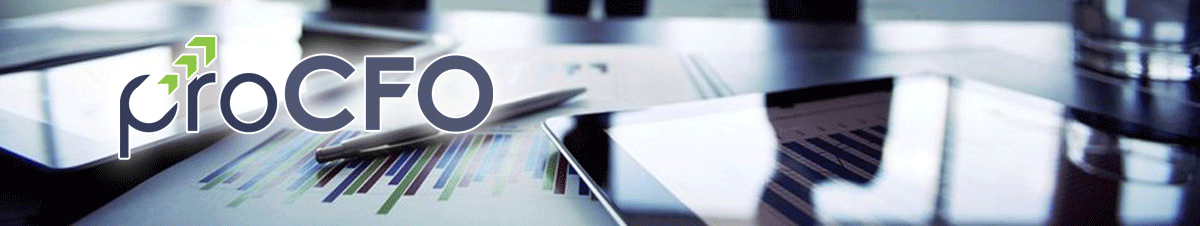
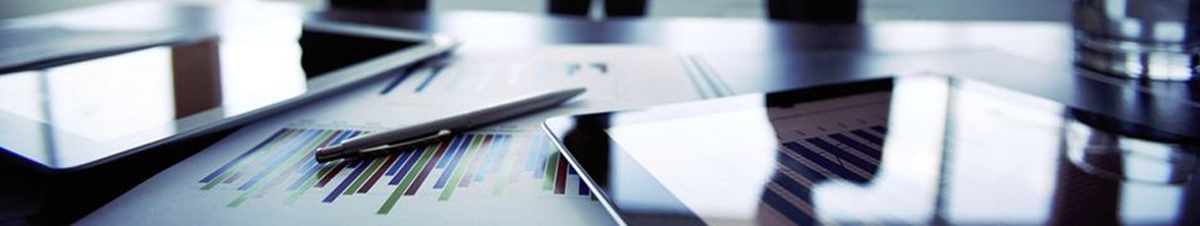
ádasdsa

Changed region(s): [[0.0617, 0.0929, 0.4317, 0.7743], [0.4625, 0.7743, 0.4933, 0.8053]]

diff --git a/procfo.com.au/css/style.css b/procfo.com.au/css/style.css
@@ -22,9 +22,20 @@ body{
 *	CSS HEADER
 */
 .container-header{
-	background:url('/images/home_header_bg.png') center center no-repeat;
-	background-size: cover;
 	min-height: 226px;
+	position: relative;
+}
+.logo{
+    position: absolute;
+    top: 0;
+    left: 0;
+    bottom: 0;
+    right: 0;
+    overflow: hidden;
+}
+.logo img{
+	max-width: 100%;
+	height: auto;
 }
 .box-btn{
 	float: right;
@@ -105,12 +116,31 @@ body{
 .navbar-default .navbar-nav>li:last-child:after{
 	display: none;
 }
+
+.navbar-toggle{
+    margin: 0;
+    padding: 0;
+    border: none;
+    background: #323c57;
+    width: 41px;
+    height: 41px;
+    border-radius: 4px;
+}
+.navbar-toggle .icon-bar{
+    display: block;
+    width: 32px;
+    height: 5px;
+    border-radius: 2px;
+    background: #fff;
+    margin: 0 auto 0;
+}
+.navbar-toggle .icon-bar:nth-last-child(2){
+    margin: 7px auto;
+}
 /*
 *	CSS CONTENT
 */
 #site-content{
-	background: url('/images/home_bg.png') center center no-repeat;
-	background-size: cover;
 	min-height: 645px;
 }
 .article-content{
@@ -287,7 +317,7 @@ footer#site-footer a:hover{
 	text-decoration: underline;
 	text-transform: capitalize;
 }
-.contact-footer li p{
+.contact-footer li p, .contact-footer li span{
 	text-transform: capitalize;
 	margin: 0;
 }
@@ -329,6 +359,7 @@ map{
 }
 .footer-icon{
 	list-style: none;
+	margin: 17px 0 0;
 }
 .footer-icon li{
 	float: left;
@@ -336,7 +367,7 @@ map{
 .footer-icon li a{
 	margin-right: 16px;
 }
-@media screen and (min-width: 1300px){
+@media screen and (min-width: 801px){
 	.navbar-default .navbar-nav>li{
 		padding: 0 1.3%;    
 	    display: inline-block;
@@ -345,16 +376,6 @@ map{
 	.navbar-default .navbar-nav>li>a:after{
 		right: 2.9em;
 	}
-}
-@media screen and (min-width: 1200px) and (max-width: 1280px){
-	.navbar-default .navbar-nav>li{
-		padding: 0 .88%;    
-	}
-	.navbar-default .navbar-nav>li>a:after{
-		right: 1.5em;
-	}
-}
-@media(min-width: 789px){
 	.navbar-default .navbar-nav>li:first-child{
 		padding-left: 0;
 	}
@@ -362,12 +383,107 @@ map{
 		padding-right: 0;
 	}
 }
-@media (max-width: 768px){
+@media (max-width: 800px){
+	.navbar-toggle {
+    	display: block;
+	}
+	.navbar-nav>li{
+		float: none;
+	}
+	.logo img{
+		height: 100%;
+		max-width: 1000%;
+		margin:-31px auto 0 -80px;
+	}
+	.container-header .content{
+		position: absolute;
+		bottom: 0;
+    	width: 100%;
+	}
+	.box-btn{
+		width: 100%;
+	    text-align: center;
+	    margin: 0 0 30px;
+	}
+	.box-btn a{
+	    margin: 0;
+	    display: inline-block;    
+	    font-size: 16px;
+    	padding: 8px 5px;
+	}
+	.navbar-right{
+		text-align: center;
+	}
+	.navbar-default{
+		border: none;
+		min-height: 0;
+	}
+	.navbar-default .navbar-nav>li:after{
+		display: none;
+	}
+	.navbar-default .navbar-collapse{
+		border: none;
+		display: none;/* 
+		max-height: 0;
+		-moz-transition: max-height .5s ease;
+			    -webkit-transition: max-height .5s ease;
+			    -o-transition: max-height .5s ease;
+			    transition: max-height .5s ease; */
+	}
+	.navbar-default .navbar-collapse.open{/* 
+		max-height: 999px;
+		display: block;
+		-moz-transition: max-height 1s ease;
+	    -webkit-transition: max-height 1s ease;
+	    -o-transition: max-height 1s ease;
+	    transition: max-height 1s ease; */
+	}
+
+	.container-site-content.container.content{
+		width: 100%;
+		padding: 17px 0 0;
+	}
+	.box-post-content{
+	    border-bottom-left-radius: 0;
+    	border-bottom-right-radius: 0;
+    	padding-bottom: 86px;
+	}
 	.article-content{
-	width: 100%;
-	padding: 0;
-}
-.widget{
-	width: 100%;
-}
+		width: 100%;
+		padding: 0 1.25% ;
+	}
+	.widget{
+	    width: 100%;
+	    background: #fff;
+	    margin-top: 0;
+	}
+	.box-widget{
+		width: 68.23%;
+	    float: none;
+    	margin: -80px auto 0;
+    	padding-bottom: 6px;
+	}
+	nav.related_posts li{
+		position: relative;
+		padding-left: 24px;
+	}
+	nav.related_posts li:before{
+		position: absolute;
+		left: 0;
+	}
+	nav.related_posts li a{
+		text-decoration: underline;
+	}
+	.footer_left div[class*='col-']{
+		width: 50%
+	}
+	.footer_left div[class*='col-']:last-child{
+		width: 100%;
+		margin-top: 40px;
+		text-align: center;
+	}
+	.footer_right ul{
+		list-style: none;
+		margin: 0 auto;
+	}
 }

diff --git a/procfo.com.au/js/custom.js b/procfo.com.au/js/custom.js
@@ -1,0 +1,23 @@
+$( document ).ready(function() {
+	var h = 0;
+	var coll_h = $('.navbar-collapse').height();
+    $('.navbar-toggle').click(function(){
+    		$('.navbar-collapse').toggle('fast');
+    });
+    var screen = $( window ).width();
+	    if(screen <= 800){
+			console.log(screen);
+			$('.footer_right').append($('.footer-social'));
+		}else{
+			$(".contact-footer").append($('.footer-social'));
+		}
+    $( window ).resize(function() {
+			console.log(screen);
+		if(screen <= 800){
+			console.log(screen);
+			$('.footer_right').append($('.footer-social'));
+		}else{
+			$(".contact-footer").append($('.footer-social'));
+		}
+	});	
+});

diff --git a/procfo.com.au/index.php b/procfo.com.au/index.php
@@ -22,28 +22,28 @@
 		<section class="wapper">
 			<div class="container-fluid">
 				<header id="site-header">
-					<div class="container-header">
+					<div class="container-header" style="background:url('/images/home_header_bg.png') center center no-repeat;    background-size: cover;">
+						<div class="logo">
+							<img src="/images/logo.png" alt="">
+						</div>
 						<div class="content">
 							<div class="box-btn">
 								<a class="btn btn-1" href="#">Call Now (08) 6311 9799</a>
 								<a class="btn btn-2" href="#">Book a Free Consultation</a>
+								<button type="button" class="navbar-toggle">
+										<span class="icon-bar"></span>
+										<span class="icon-bar"></span>
+										<span class="icon-bar"></span>
+								</button>
 							</div>
 						</div>
 					</div>
 					<nav class="navbar navbar-default" role="navigation">
 							<div class="content">
 								<!-- Brand and toggle get grouped for better mobile display -->
-								<div class="navbar-header">
-									<button type="button" class="navbar-toggle" data-toggle="collapse" data-target=".navbar-ex1-collapse">
-										<span class="sr-only">Toggle navigation</span>
-										<span class="icon-bar"></span>
-										<span class="icon-bar"></span>
-										<span class="icon-bar"></span>
-									</button>
-								</div>
 						
 								<!-- Collect the nav links, forms, and other content for toggling -->
-								<div class="collapse navbar-collapse navbar-ex1-collapse">
+								<div class="navbar-collapse">
 									<ul class="nav navbar-nav navbar-right">
 										<li><a href="#">home</a></li>
 										<li><a href="#">Book Keeping Service</a></li>
@@ -58,7 +58,9 @@
 							</div>
 						</nav>	
 				</header>	
-				<section id="site-content">
+				<section id="site-content" style="
+	background: url('/images/home_bg.png') center center no-repeat;
+	background-size: cover;">
 					<div class="container-site-content container content">
 						<article class="article-content">
 							<div class="box-post-content">
@@ -207,5 +209,6 @@
 		<script src="/js/jquery-1.12.4.min.js"></script>
 		<!-- Bootstrap JavaScript -->
 		<script src="/js/bootstrap.min.js"></script>
+		<script src="/js/custom.js"></script>
 	</body>
 </html>
